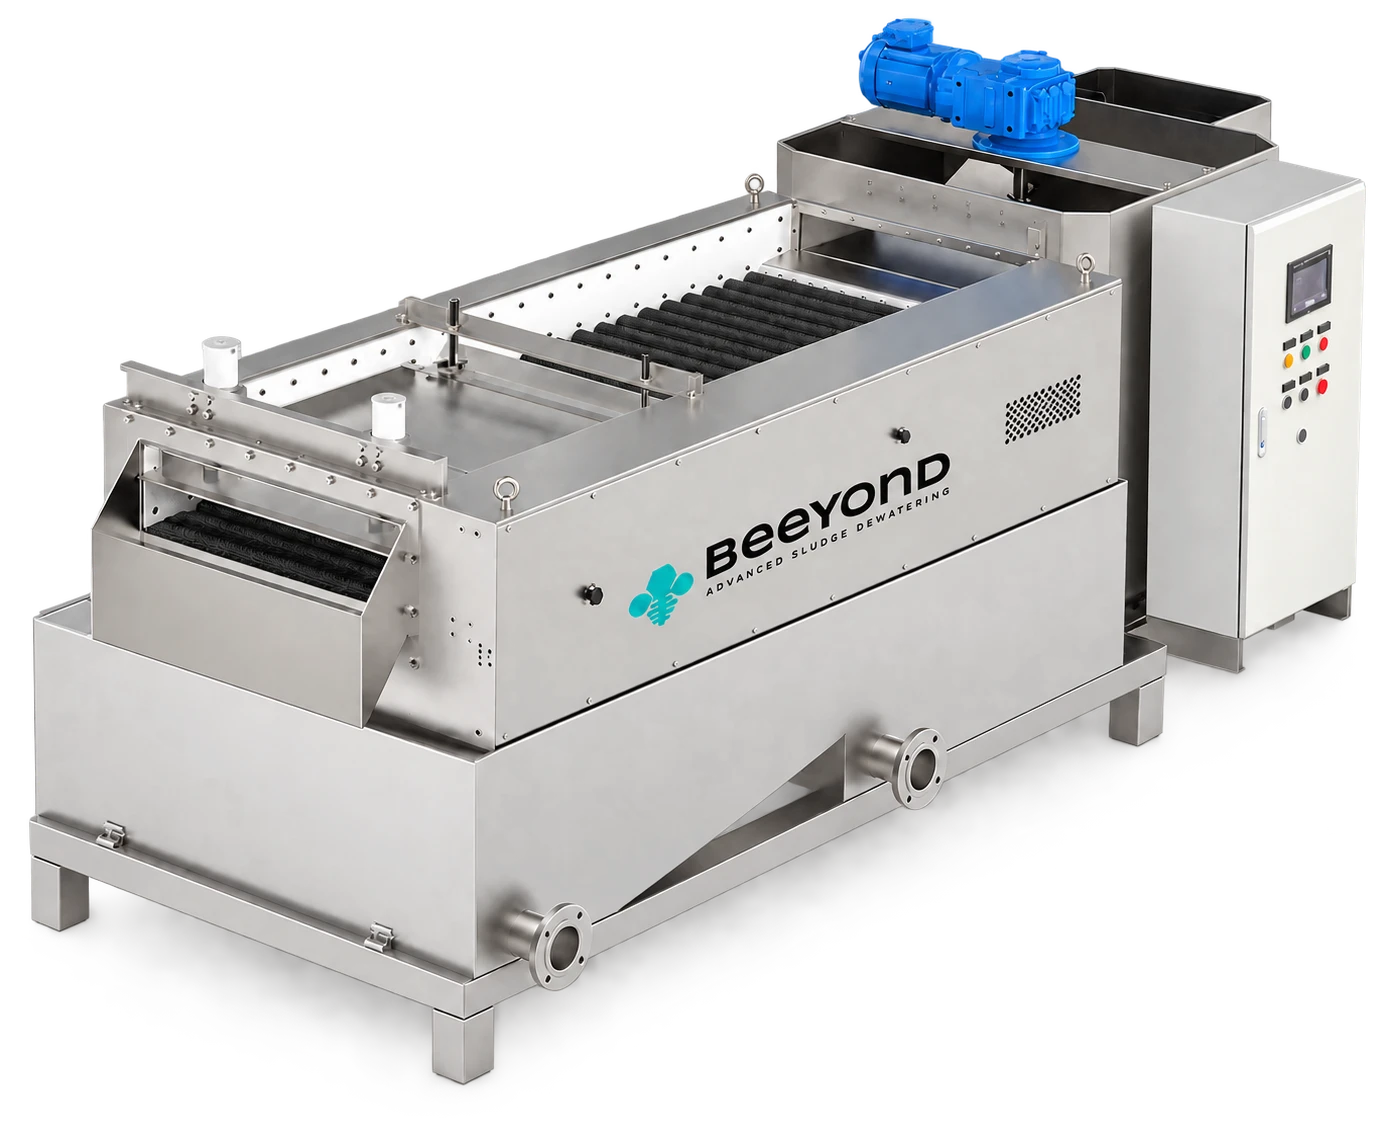
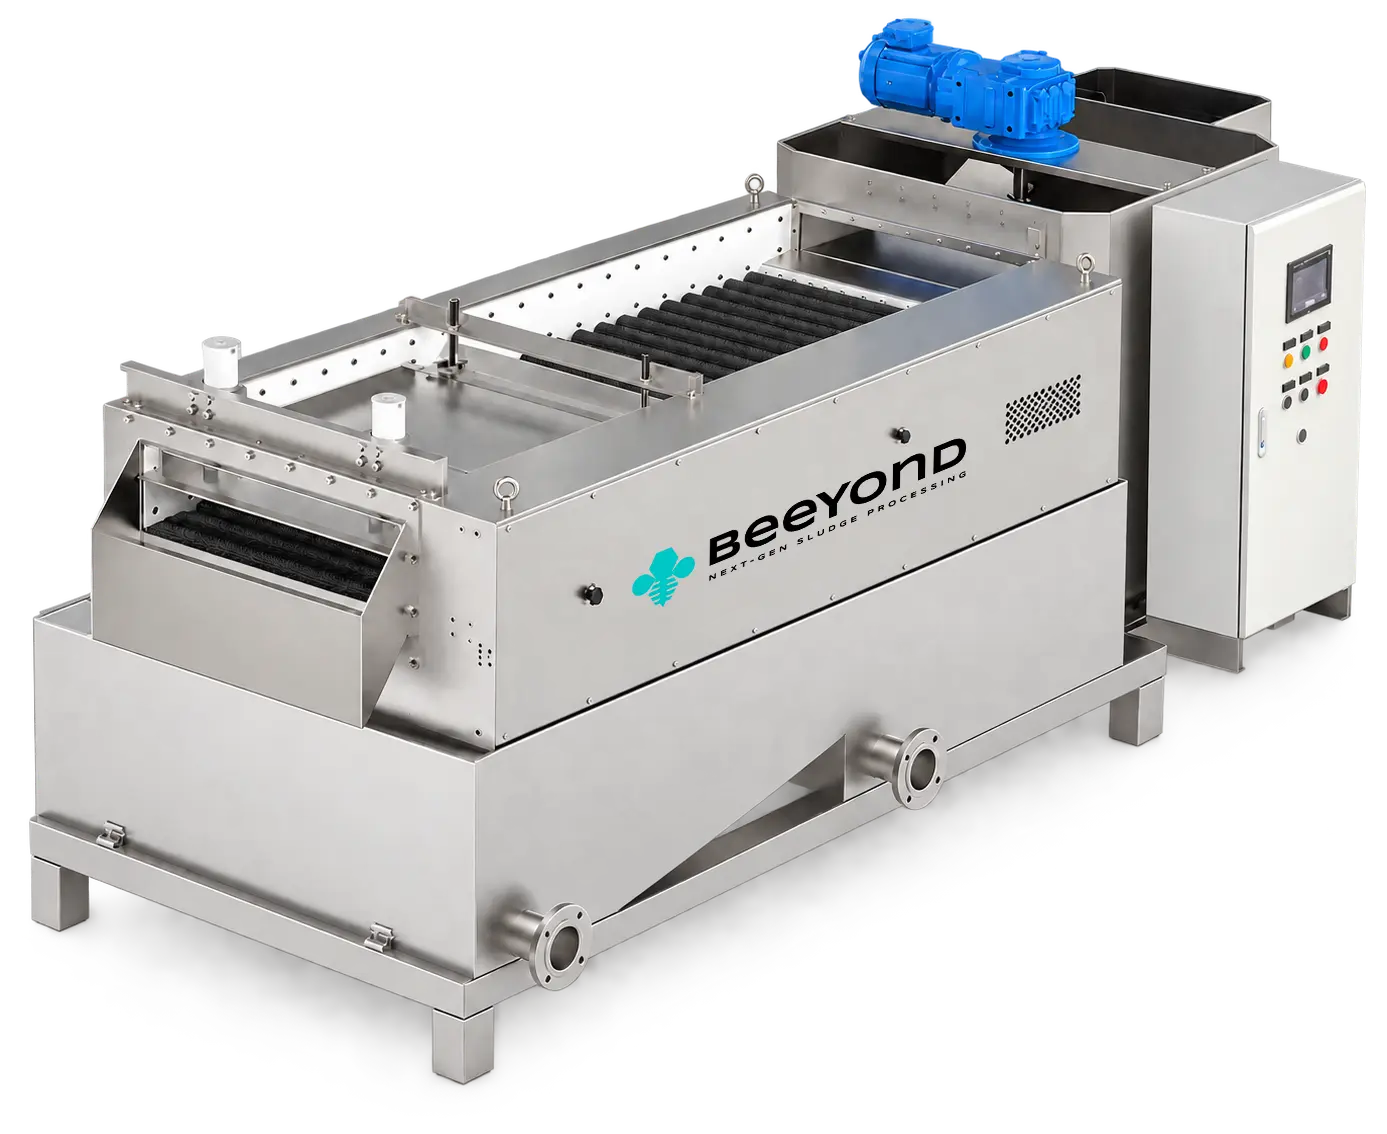
Client corrections v2, and the new Wave render
From "Correzioni Sito V2": six of the nine points. The other three need files
the client still has to send.

- the word behind the press reads BTECH(R) instead of MPSP, the viewBox and the
  word ratio remeasured so the crop still fits the new word
- the fluid WebGL effect is off on the photo reel: the plain photos were already
  the fallback, so the gallery now matches the one on the BW page
- "Which size fits your load?" becomes "Which model", and the line about sending
  kg-DS/h goes
- Alfa 1 is listed as Gestore Servizio Idrico
- the BW dewatering table marks its capacity column with the asterisk that the
  note below already explains, and the older note about datasheets goes
- the sector icon on the home applications card is about half as big again
- the first Serracapriola photo showed another plant, so it is out until the
  right one arrives; a case left with one photo now spans the row
- the Wave render is the new file, same size, with the current logo on the machine

Changed region(s): [[0.434, 0.3704, 0.713, 0.5556]]

diff --git a/btech-screw-press.html b/btech-screw-press.html
@@ -92,11 +92,11 @@
 
 <!-- ================= HERO ================= -->
 
-<section class="phero" style="--word-ratio:3.381">
+<section class="phero" style="--word-ratio:4.222">
   <div class="wrap phero-stage">
     <h1 class="phero-word rv">
-      <svg width="1700" height="630" viewBox="-1 9 213 63" preserveAspectRatio="xMidYMid meet" role="img" aria-label="MPSP">
-        <text x="104" y="70" text-anchor="middle">MPSP</text>
+      <svg width="1700" height="403" viewBox="-27 9 266 63" preserveAspectRatio="xMidYMid meet" role="img" aria-label="BTECH Series">
+        <text x="104" y="70" text-anchor="middle">BTECH<tspan font-size="38%" dy="-0.55em">&reg;</tspan></text>
       </svg>
     </h1>
     <div class="phero-obj rv rv-d1"><img src="img/mds-macchinario/mds-render.webp" width="1448" height="1086" fetchpriority="high" decoding="async"
@@ -174,7 +174,9 @@
 </section>
 
 <!-- ================= REEL ================= -->
-<section class="reel" data-reel-gl style="--reel-h:620vh">
+<!-- l'effetto fluido sulle foto e spento su richiesta del cliente:
+     per riaccenderlo rimettere data-reel-gl su questa sezione -->
+<section class="reel" style="--reel-h:620vh">
   <div class="reel-sticky">
     <div class="wrap reel-head rv">
       <h2 class="h2">A closer look<br><span class="muted">at the BTECH&reg;.</span></h2>
@@ -397,7 +399,7 @@
         </summary>
         <div class="ch-body">
           <div class="ch-pics">
-            <img src="img/case-history/serracapriola-1.webp" width="1315" height="988" loading="lazy" decoding="async" alt="The BTECH-352 installed indoors at Serracapriola, next to its control cabinet">
+            <!-- la prima foto ritraeva un altro impianto (Correzioni V2): rimessa quando arriva quella di Serracapriola -->
             <img src="img/case-history/serracapriola-2.webp" width="1262" height="862" loading="lazy" decoding="async" alt="Twin gearmotors and cake chute of the BTECH-352 at Serracapriola">
           </div>
           <dl class="ch-data">
@@ -463,7 +465,7 @@
       <details class="ch" name="ch">
         <summary>
           <span class="ch-n">04</span>
-          <span class="ch-who"><b>Alfa 1</b><span>Sangineto Lido (CS)</span></span>
+          <span class="ch-who"><b>Gestore Servizio Idrico</b><span>Sangineto Lido (CS)</span></span>
           <span class="ch-logo-cell" aria-hidden="true"></span>
           <span class="ch-sec">Municipal wastewater</span>
           <span class="ch-mod">BTECH-301 skid</span>
@@ -780,9 +782,8 @@
 <section data-nav-dark class="sec sec--tight contact">
   <div class="wrap">
     <div class="grid g2" style="align-items:center">
-      <h2 class="h2 rv">Which size<br><span class="muted">fits your load?</span></h2>
+      <h2 class="h2 rv">Which model<br><span class="muted">fits your load?</span></h2>
       <div class="rv rv-d1">
-        <p class="lead" style="margin-bottom:26px">Send kg-DS/h and running hours. You get a model number back.</p>
         <div class="btn-row">
           <a class="btn btn--solid" href="contact?product=BTECH#enquiry">Request a quote <span class="arw">&rarr;</span></a>
           <a class="btn" href="bw-wave-separator">BW Series&reg; WAVE Separator <span class="arw">&rarr;</span></a>

diff --git a/styles.css b/styles.css
@@ -781,7 +781,7 @@ html:has(.vid-modal[open]){overflow:hidden}
 }
 .apx-ic.on{opacity:1;transform:none}
 /* la stessa icona, grande, sopra la ruota dei settori: la chiede il documento del cliente */
-.apx-ics--big{width:clamp(44px,4vw,64px);height:clamp(44px,4vw,64px);margin:0 auto clamp(14px,1.6vw,22px)}
+.apx-ics--big{width:clamp(66px,6vw,96px);height:clamp(66px,6vw,96px);margin:0 auto clamp(14px,1.6vw,22px)}
 .apx-ics--big .apx-ic{width:100%;height:100%;stroke-width:1.2}
 .apx-cm{display:none}
 [data-m=mds] .apx-cm--mds,[data-m=wave] .apx-cm--wave,[data-m=both] .apx-cm--both{display:block;animation:apx-in .6s var(--ease)}
@@ -1119,6 +1119,8 @@ tbody tr.hide{display:none}
 }
 .ch-pics{display:grid;grid-template-columns:1fr 1fr;gap:clamp(10px,1.2vw,16px)}
 .ch-pics img{display:block;width:100%;height:auto;aspect-ratio:1;object-fit:cover;border-radius:10px;background:var(--panel)}
+/* un caso con una sola foto la stende su tutta la riga, invece di lasciare mezza colonna vuota */
+.ch-pics img:only-child{grid-column:1/-1;aspect-ratio:16/10}
 .ch-data{margin:0;display:grid;gap:clamp(14px,1.6vw,20px);align-content:start}
 .ch-data dt{font-size:10.5px;letter-spacing:.16em;text-transform:uppercase;color:var(--mute)}
 .ch-data dd{margin:6px 0 0;font-size:15px;line-height:1.5}

diff --git a/bw-wave-separator.html b/bw-wave-separator.html
@@ -454,7 +454,7 @@
       <div class="tbl-wrap">
         <table id="t-dew" class="sortable">
           <thead><tr>
-            <th>Model</th><th>kg-DS/h</th><th>m&sup3;/h @10 g/L</th><th>m&sup3;/h @20 g/L</th>
+            <th>Model</th><th>kg-DS/h<sup>*</sup></th><th>m&sup3;/h @10 g/L</th><th>m&sup3;/h @20 g/L</th>
             <th>L &times; W &times; H mm</th><th>kW</th><th>Weight kg</th>
           </tr></thead>
           <tbody>
@@ -468,8 +468,6 @@
           </tbody>
         </table>
       </div>
-      <p class="tbl-note">Dry-solids load is the manufacturer figure. Hydraulic flow is the same load
-        expressed at 10 and 20 g/L. Confirm against the official datasheet before ordering.</p>
     </div>
 
     <!-- THICKENING -->
